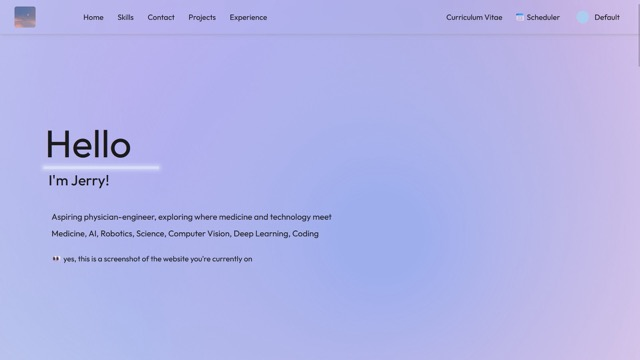
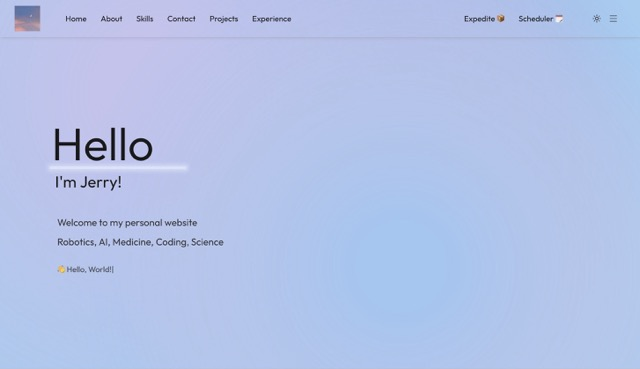
tweak gradient and reorder projects

diff --git a/src/pages/HomePage/Projects/Projects.tsx b/src/pages/HomePage/Projects/Projects.tsx
@@ -70,15 +70,6 @@ const projects: CardProps[] = [
         dateDisplay: formatDate(new Date("2026-06-12T00:00:00"))
     },
     {
-        title: "stats.jerryxf",
-        subTitle: "Cool live data feeds",
-        image: _stats,
-        chipText: "🟢 Stable",
-        dateDisplay: formatDate(new Date("2026-07-22T00:00:00")),
-        url: "https://stats.jerryxf.net",
-        description: "A collection of *diverse* live data feeds, including Quebec ER capacity and Hypixel Skyblock Attribute Shards Fusion prices."
-    },
-    {
         title: "BapUtils",
         subTitle: "A Hypixel Skyblock Minecraft mod",
         image: _baputils,
@@ -106,6 +97,15 @@ const projects: CardProps[] = [
         dateDisplay: formatDate(new Date("2026-05-22T00:00:00"))
     },
     {
+        title: "stats.jerryxf",
+        subTitle: "Cool live data feeds",
+        image: _stats,
+        chipText: "🟢 Stable",
+        dateDisplay: formatDate(new Date("2026-07-22T00:00:00")),
+        url: "https://stats.jerryxf.net",
+        description: "A collection of *diverse* live data feeds, including Quebec ER capacity and Hypixel Skyblock Attribute Shards Fusion prices."
+    },
+    {
         title: "MEDIVE",
         subTitle: "Research project",
         image: _medive,
@@ -125,16 +125,6 @@ const projects: CardProps[] = [
     //     description: "A defense-software company building the operational intelligence layer that turns raw, multi-source data into live, explainable decisions. Unveil builds ORCA and everything that follows."
     // },
     {
-        title: "ORCA",
-        subTitle: "Uncover the unseen",
-        image: _endPortal,
-        chipText: "🧩 MVP",
-        dateDisplay: formatDate(new Date("2025-10-01T00:00:00")),
-        url: "https://unveiltechnologies.com",
-        description: "A tactical intelligence platform that turns battlefield data into live, actionable insight — through AI-driven multimodal fusion, anomaly detection, and explainable intel assessments.",
-        footer: "TRL-3"
-    },
-    {
         title: "Kahoot! bot",
         subTitle: "",
         image: _kahootBot,
@@ -142,6 +132,14 @@ const projects: CardProps[] = [
         dateDisplay: formatDate(new Date("2024-07-01T00:00:00")),
         url: "https://github.com/jerryxfu/kahoot-bot",
         description: "A Kahoot bot that can join games, answer questions, and send reactions at your command. Built using Python and Playwright to automate the web interface.",
+    },
+    {
+        title: "*.jerryxf.net",
+        subTitle: "This website, right here!",
+        image: _jerryxf,
+        chipText: "🟢 Stable",
+        dateDisplay: formatDate(new Date("2022-07-25T00:00:00")), // aspectofjerry.dev registration date
+        description: "This portfolio website as well as the API that empowers other projects.",
     },
     {
         title: "JerryBot",
@@ -160,14 +158,6 @@ const projects: CardProps[] = [
         dateDisplay: formatDate(new Date("2025-08-19T00:00:00")),
         url: "/supericu",
         description: "SuperICU is a tool to playback and visualize data from Intensive Care Unit monitor logs, including waveforms, vitals, and alarms, all in a patient monitor-like interface."
-    },
-    {
-        title: "*.jerryxf.net",
-        subTitle: "This website, right here!",
-        image: _jerryxf,
-        chipText: "🟢 Stable",
-        dateDisplay: formatDate(new Date("2022-07-25T00:00:00")), // aspectofjerry.dev registration date
-        description: "This portfolio website as well as the API that empowers other projects.",
     },
     {
         title: "Doublestartyre CA",
@@ -243,10 +233,20 @@ const projects: CardProps[] = [
         description: "LLM vs LLM was a project that allowed two large language models to debate on a given topic, showcasing the capabilities (or inability) of LLMs in generating coherent and relevant arguments.",
     },
     {
+        title: "ORCA",
+        subTitle: "Uncover the unseen",
+        image: _endPortal,
+        chipText: "🧩 MVP",
+        dateDisplay: formatDate(new Date("2025-10-01T00:00:00")),
+        url: "https://unveiltechnologies.com",
+        description: "A tactical intelligence platform that turns battlefield data into live, actionable insight — through AI-driven multimodal fusion, anomaly detection, and explainable intel assessments.",
+        footer: "TRL-3"
+    },
+    {
         title: "Cyclic",
         subTitle: "Sleep cycle calculator and periods tracker",
         image: _endPortal,
-        chipText: "🧩 MVP",
+        chipText: "🌀 Concept",
         dateDisplay: formatDate(new Date("2025-12-28T00:00:00")),
         description: "A mobile app for optimising sleep cycles and tracking periods, built with privacy at its core.",
         footer: "iOS & Android"

diff --git a/src/assets/styles/gradient-mesh-default.scss b/src/assets/styles/gradient-mesh-default.scss
@@ -38,12 +38,12 @@
         --y-0: 100%;
         --s-start-0: 8%;
         --s-end-0: 74%;
-        --c-1: hsla(338, 56%, 82%, 1);
+        --c-1: hsla(338, 62%, 80%, 1);
         --x-1: 46%;
         --y-1: 38%;
         --s-start-1: 17%;
         --s-end-1: 73%;
-        --c-2: hsla(314, 38%, 82%, 1);
+        --c-2: hsla(314, 44%, 80%, 1);
         --x-2: 2%;
         --y-2: 5%;
         --s-start-2: 9%;
@@ -53,7 +53,7 @@
         --y-3: 48%;
         --s-start-3: 5%;
         --s-end-3: 79%;
-        --c-4: hsla(212, 52%, 73%, 1);
+        --c-4: hsla(265, 50%, 78%, 1);
         --x-4: 40%;
         --y-4: 91%;
         --s-start-4: 6%;
@@ -229,7 +229,7 @@
     --y-4: 2%;
     background-color: hsla(210, 68%, 80%, 1); // #abcdef, the --primary blue
     background-image: radial-gradient(circle at var(--x-0) var(--y-0), var(--c-0) var(--s-start-0), transparent var(--s-end-0)), radial-gradient(circle at var(--x-1) var(--y-1), var(--c-1) var(--s-start-1), transparent var(--s-end-1)), radial-gradient(circle at var(--x-2) var(--y-2), var(--c-2) var(--s-start-2), transparent var(--s-end-2)), radial-gradient(circle at var(--x-3) var(--y-3), var(--c-3) var(--s-start-3), transparent var(--s-end-3)), radial-gradient(circle at var(--x-4) var(--y-4), var(--c-4) var(--s-start-4), transparent var(--s-end-4));
-    animation: gradient-animation-default 8s linear infinite alternate;
+    animation: gradient-animation-default 7s linear infinite alternate;
     background-blend-mode: normal, normal, normal, normal, normal;
     position: absolute;
     width: 100%;
